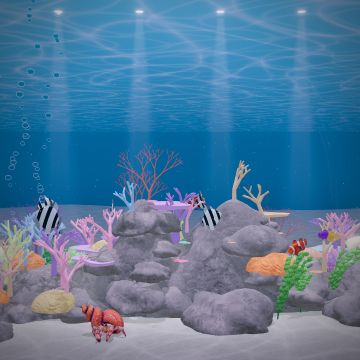
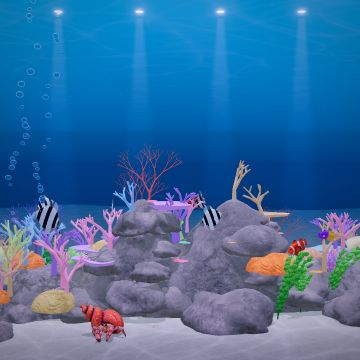
feat(looks): the Reef under LEDs look, worn by the Home reef (I2)
Clear water that loses its reds first, coral fluorescence on, little
marine snow, no waves and no sunbeams, white light from above; the Home
reef keeps its row of spots and gets a low surface (0.2). New visual
baseline, gallery and card pictures.

diff --git a/docs/ROADMAP.md b/docs/ROADMAP.md
@@ -379,8 +379,9 @@ species are needed.
 Each a file in `public/looks/`, listed in the panel's Look section and
 tuned against reference photographs, with every parameter a slider.
 
-- [ ] Reef under LEDs: crystal clear water, little absorption, white and
-      actinic blue spots, coral fluorescence, no surface waves.
+- [x] Reef under LEDs: crystal clear water, little absorption, white and
+      actinic blue spots, coral fluorescence, no surface waves
+      (`looks/reef-led.json`, worn by the Home reef).
 - [x] Planted freshwater: see J2.
 - [x] Open sea: the Hero look as it is (`looks/hero.json`).
 - [x] Clownfish lagoon: shallow, sunny turquoise water, bright caustics on

diff --git a/docs/SCRIVERE_SCENE.md b/docs/SCRIVERE_SCENE.md
@@ -286,6 +286,11 @@ dall'alto. Il look da solo non basta: la scena dà anche all'acqua un
 `surface` calma (0.08), uno sfondo quasi nero e una plafoniera `"sun"`,
 così sopra l'acqua non si vede una fila di faretti.
 
+La Home reef usa `public/looks/reef-led.json`, una vasca di barriera sotto
+faretti LED: acqua limpida che perde prima i rossi, la fluorescenza dei
+coralli accesa, poca neve marina, niente onde né raggi di sole. La scena
+tiene la sua fila di faretti e una `surface` bassa (0.2).
+
 I look elencati in `public/looks/index.json` si possono anche scegliere
 nella sezione Look del pannello, per qualunque scena, con uno slider per
 ogni impostazione.

diff --git a/docs/SCENES.md b/docs/SCENES.md
@@ -278,6 +278,11 @@ not enough for that: the scene also gives the water a dark grey-green
 near-black backdrop and a `"sun"` fixture, so no row of spots shows above
 the water.
 
+The Home reef wears `public/looks/reef-led.json`, a reef tank under LED
+spots: clear water that loses its reds first, the coral fluorescence on,
+little marine snow, no waves and no sunbeams. The scene keeps its row of
+spots and a low `surface` (0.2).
+
 The looks listed in `public/looks/index.json` can also be chosen in the
 panel's Look section for any scene, with a slider for every setting.
 
